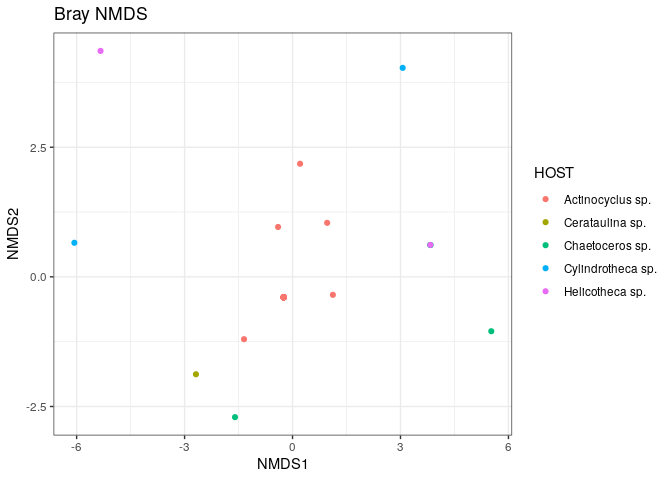
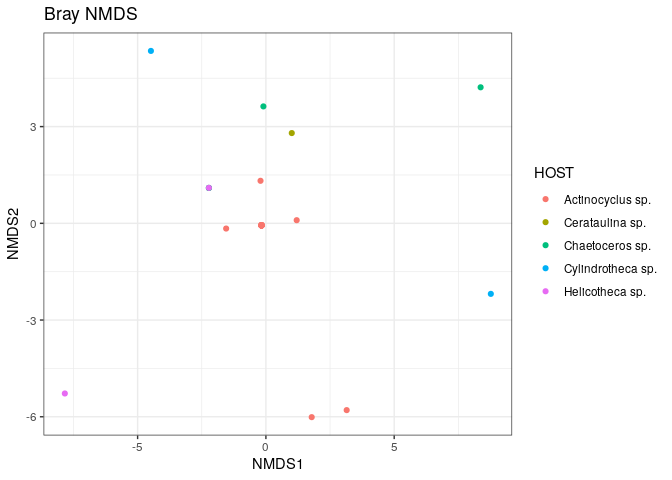
Analyse d'article

diff --git a/myarticle.md b/myarticle.md
@@ -1,11 +1,27 @@
 R Notebook
 ================
 
-Méthode: Ils ont isolé et identifié la diatomée Actinocyclus sp. ainsi
-que ses bactéries associées par séquençage et microscopie. Ils ont
-ensuite créé une culture axénique puis testé différentes souches
-bactériennes en co-culture pour observer leur effet sur la croissance de
-la diatomée, suivie par cytométrie en flux et analyses statistiques.
+Introduction: Les diatomées sont de minuscules algues qui vivent presque
+partout près de la surface des océans, des lacs et des rivières. Ils
+restent près de la surface car, comme toute plante, ils ont besoin de
+lumière pour produire de l’énergie par le biais du processus de
+photosynthèse Les interactions entre les diatomées et les bactéries
+façonnent la dynamique des communautés microbiennes et ont d’importantes
+implications écologiques, car elles influencent les processus
+biologiques et chimiques qui structurent le réseau trophique marin et
+régissent le cycle biogéochimique. (Falkowski et coll., 1998; Field et
+al., 1998; Liu et coll., 2019; Le Reun et al., 2022).
+
+Les diatomées exsudent du carbone organique dissous (COD) qui alimente
+la croissance des bactéries hétérotrophes, qui reminéralisent ensuite
+ces composés organiques et favorisent ainsi potentiellement la
+production primaire (Azam et Malfatti, 2007; Falkowski et coll., 2008;
+Worden et coll., 2015). Méthode: Ils ont isolé et identifié la diatomée
+Actinocyclus sp. ainsi que ses bactéries associées par séquençage et
+microscopie. Ils ont ensuite créé une culture axénique puis testé
+différentes souches bactériennes en co-culture pour observer leur effet
+sur la croissance de la diatomée, suivie par cytométrie en flux et
+analyses statistiques.
 
 Objectif de l’étude L’étude visait à savoir quelles bactéries stimulent
 la croissance de Actinocyclus, dans quelle mesure et à quel moment du
@@ -1143,49 +1159,44 @@ ord.nmds.bray <- ordinate(ps.prop, method="NMDS", distance="bray")
 ```
 
     ## Run 0 stress 9.484325e-05 
-    ## Run 1 stress 9.898503e-05 
-    ## ... Procrustes: rmse 0.1506286  max resid 0.3786512 
-    ## Run 2 stress 9.279077e-05 
+    ## Run 1 stress 9.60096e-05 
+    ## ... Procrustes: rmse 0.1425865  max resid 0.3928309 
+    ## Run 2 stress 9.876332e-05 
+    ## ... Procrustes: rmse 0.126347  max resid 0.2773483 
+    ## Run 3 stress 9.986314e-05 
+    ## ... Procrustes: rmse 0.1624412  max resid 0.3274154 
+    ## Run 4 stress 9.583582e-05 
+    ## ... Procrustes: rmse 0.1529893  max resid 0.3258017 
+    ## Run 5 stress 8.923059e-05 
     ## ... New best solution
-    ## ... Procrustes: rmse 0.1288594  max resid 0.3826102 
-    ## Run 3 stress 9.798603e-05 
-    ## ... Procrustes: rmse 0.1563821  max resid 0.4620818 
-    ## Run 4 stress 9.995873e-05 
-    ## ... Procrustes: rmse 0.135166  max resid 0.3546293 
-    ## Run 5 stress 9.884681e-05 
-    ## ... Procrustes: rmse 0.1302523  max resid 0.4765318 
-    ## Run 6 stress 9.925992e-05 
-    ## ... Procrustes: rmse 0.1704765  max resid 0.4903445 
-    ## Run 7 stress 9.954868e-05 
-    ## ... Procrustes: rmse 0.1666069  max resid 0.569771 
-    ## Run 8 stress 9.859677e-05 
-    ## ... Procrustes: rmse 0.1576979  max resid 0.6044311 
-    ## Run 9 stress 9.037412e-05 
-    ## ... New best solution
-    ## ... Procrustes: rmse 0.1555195  max resid 0.4242126 
-    ## Run 10 stress 9.991295e-05 
-    ## ... Procrustes: rmse 0.1590981  max resid 0.518736 
-    ## Run 11 stress 0.002649767 
-    ## Run 12 stress 0.003768194 
-    ## Run 13 stress 9.971127e-05 
-    ## ... Procrustes: rmse 0.1533329  max resid 0.4305157 
-    ## Run 14 stress 9.691915e-05 
-    ## ... Procrustes: rmse 0.1494906  max resid 0.5646566 
-    ## Run 15 stress 9.844099e-05 
-    ## ... Procrustes: rmse 0.1455365  max resid 0.4132925 
-    ## Run 16 stress 9.699135e-05 
-    ## ... Procrustes: rmse 0.1653281  max resid 0.5081665 
-    ## Run 17 stress 0.0001578939 
-    ## ... Procrustes: rmse 0.1334865  max resid 0.354065 
-    ## Run 18 stress 9.876605e-05 
-    ## ... Procrustes: rmse 0.1422178  max resid 0.5241245 
-    ## Run 19 stress 9.804671e-05 
-    ## ... Procrustes: rmse 0.1608359  max resid 0.5021806 
-    ## Run 20 stress 9.677262e-05 
-    ## ... Procrustes: rmse 0.1537447  max resid 0.5285269 
+    ## ... Procrustes: rmse 0.16912  max resid 0.3391 
+    ## Run 6 stress 0.0006625016 
+    ## Run 7 stress 0.001453142 
+    ## Run 8 stress 9.809793e-05 
+    ## ... Procrustes: rmse 0.1451854  max resid 0.5024295 
+    ## Run 9 stress 9.878481e-05 
+    ## ... Procrustes: rmse 0.1495625  max resid 0.5008714 
+    ## Run 10 stress 9.686929e-05 
+    ## ... Procrustes: rmse 0.1596715  max resid 0.4876723 
+    ## Run 11 stress 9.537285e-05 
+    ## ... Procrustes: rmse 0.1675366  max resid 0.5186232 
+    ## Run 12 stress 0.002392988 
+    ## Run 13 stress 0.003174344 
+    ## Run 14 stress 9.810123e-05 
+    ## ... Procrustes: rmse 0.09066554  max resid 0.2458781 
+    ## Run 15 stress 9.797073e-05 
+    ## ... Procrustes: rmse 0.1672364  max resid 0.5020523 
+    ## Run 16 stress 0.003431006 
+    ## Run 17 stress 9.938004e-05 
+    ## ... Procrustes: rmse 0.1612936  max resid 0.5118009 
+    ## Run 18 stress 9.759638e-05 
+    ## ... Procrustes: rmse 0.1655431  max resid 0.4996065 
+    ## Run 19 stress 9.937767e-05 
+    ## ... Procrustes: rmse 0.1693515  max resid 0.4672094 
+    ## Run 20 stress 0.002099582 
     ## *** Best solution was not repeated -- monoMDS stopping criteria:
-    ##      3: no. of iterations >= maxit
-    ##     17: stress < smin
+    ##      6: no. of iterations >= maxit
+    ##     14: stress < smin
 
     ## Warning in metaMDS(veganifyOTU(physeq), distance, ...): stress is (nearly)
     ## zero: you may have insufficient data
